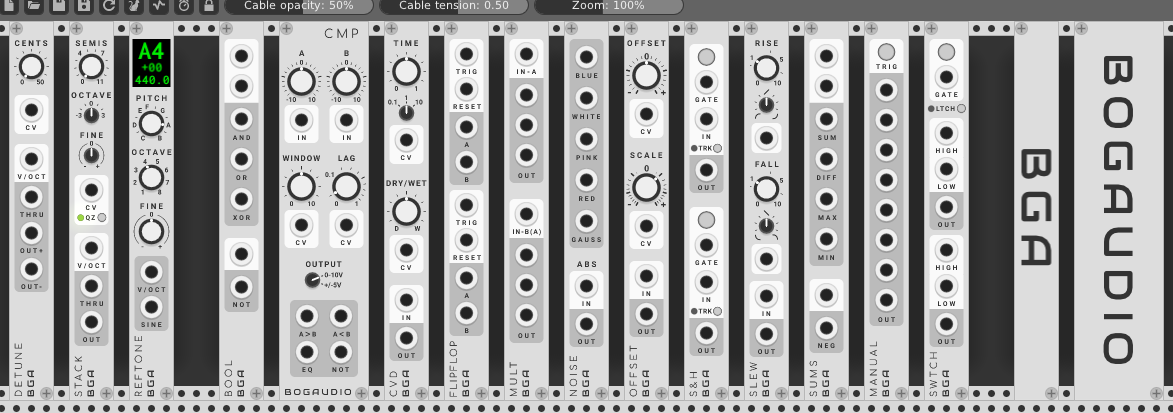
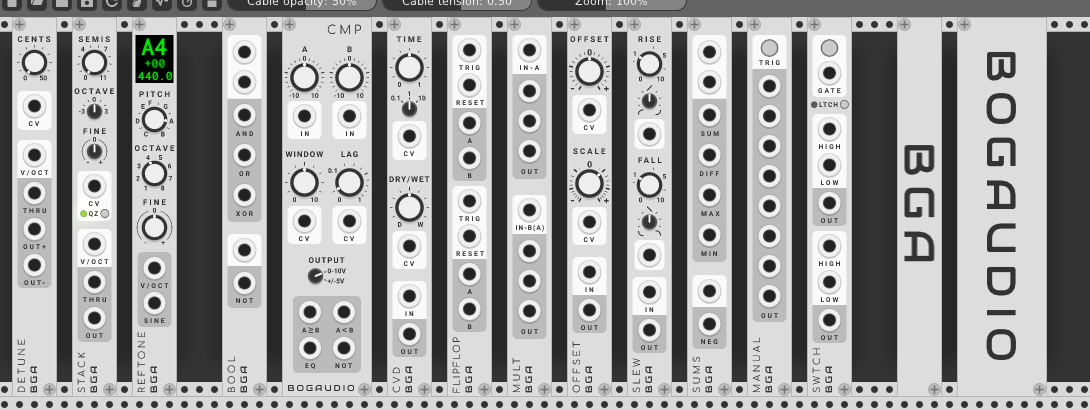
Update README; bump version; release WALK*; update screens.

diff --git a/src/bogaudio.cpp b/src/bogaudio.cpp
@@ -92,10 +92,10 @@ void init(rack::Plugin *p) {
 	p->addModel(modelADSR);
 	p->addModel(modelFollow);
 
-#ifdef EXPERIMENTAL
+	p->addModel(modelNoise);
+	p->addModel(modelSampleHold);
 	p->addModel(modelWalk2);
 	p->addModel(modelWalk);
-#endif
 
 	p->addModel(modelMix8);
 	p->addModel(modelMix4);
@@ -133,9 +133,7 @@ void init(rack::Plugin *p) {
 	p->addModel(modelFlipFlop);
 	p->addModel(modelManual);
 	p->addModel(modelMult);
-	p->addModel(modelNoise);
 	p->addModel(modelOffset);
-	p->addModel(modelSampleHold);
 	p->addModel(modelSlew);
 	p->addModel(modelSums);
 	p->addModel(modelSwitch);

diff --git a/README.md b/README.md
@@ -5,6 +5,7 @@ Modules for [VCV Rack](https://github.com/VCVRack/Rack), an open-source Eurorack
   - [Oscillators](#oscillators)
   - [LFOs](#lfos)
   - [Envelopes and Envelope Utilities](#envelopes)
+  - [Noise/Random, Sample and Hold](#random)
   - [Mixers, Panners and VCAs](#mixers)
   - [Effects and Dynamics](#effects)
   - [Sequential Switches and Sequencers](#sequencers)
@@ -16,6 +17,8 @@ Modules for [VCV Rack](https://github.com/VCVRack/Rack), an open-source Eurorack
 ![modules screenshot](./doc/www/modules1.png)
 
 ![modules screenshot](./doc/www/modules2.png)
+
+![modules screenshot](./doc/www/modules6.png)
 
 ![modules screenshot](./doc/www/modules5.png)
 
@@ -180,17 +183,53 @@ An envelope follower, a utility that converts its input to a CV proportional to 
 
 With DAMP at the minimum setting and SCALE at half, the module is an effective wave rectifier (that is, it outputs the absolute value of the input).
 
+### <a name="random"></a> Noise/Random, Sample and Hold
+
+![Noise/random screenshot](doc/www/noise.png)
+
+#### NOISE
+
+A noise source, in types blue (f), white, pink (1/f), red (aka rown, 1/f^2) and Gauss (normal with mean 0 and variance 1).
+
+Additionally, NOISE has an absolute value circuit.  Patch audio into ABS to get positive CV.  For example, patch white noise into ABS to get uniform values in the range 0 to 10.
+
+#### S&H
+
+A dual sample-and-hold and trigger-and-hold.  Sampling may be triggered by CV (on the rising edge of a trigger or gate) or button press.  If nothing is connected to an IN port, sampling for that channel is from an internal white noise source (range 0-10V).
+
+Each channel can be toggled into track-and-hold mode.  In this mode, when the input at GATE is high, or the button is held, the input is copied to the output.  When the gate goes low, the input is sampled and held until the next gate.
+
+#### WALK2
+
+WALK2 provides two channels of chaotic CV, where the CV moves as a "random walk".  The two outputs are drawn as a trace, in X and Y, on the display.
+
+For each channel:
+ - RATE controls how sedately, or wildly, the CV moves around.  If CV is in use, it is attenuated by the knob.
+ - OFFSET adds or subtracts up to 5V from the base +/-5V output.  If the offset CV is in use, it is attenuverted by the knob.
+ - SCALE scales the output; if CV is in use, it is attenuated by the knob.
+
+Additionally:
+  - A trigger on the JUMP input will cause both channels to jump to a random value.  A bit of slew limitation applies to the jump to minimize popping.
+  - DIST outputs a third CV, ranging over 0-10V, related the X and Y channel outputs.  
+
+Clicking on the display will jump the outputs, X and Y, to that point (again with a bit of slew limitation).
+
+Various options on the context (right-click) menu allow customization of the display (set the range of the display to +/-10V instead of the default +/-5V; hide the grid dots; set the color of the trace).
+
+#### WALK
+
+WALK is a single-channel random walk, identical to one channel of WALK2, in 3HP.
 
 ### <a name="mixers"></a> Mixers, Panners and VCAs
 
-#### MIX4
+#### MIX8
 
-A four-channel mixer/panner with performance mutes.
+An eight-channel mixer/panner with performance mutes.
 
 ![Mixers screenshot](doc/www/mixers1.png)
 
 Features:
-  - Four input channels with decibel-calibrated level faders.
+  - Eight input channels with decibel-calibrated level faders.
   - Level fader for the output mix.
   - CV control over channel and output levels; expects +10 volt CV; CV is attenuated by the corresponding slider when in use.
   - CV-controlled stereo panners; expects +/-5 volt CV; CV is attenuverted by the corresponding knob when in use.
@@ -200,9 +239,13 @@ Features:
   - Fader handles contain lights indicating the signal level out of that channel or the entire mix.
   - Output saturates (soft clips) to +/-12 volts, where the clipping effect becomes noticeable above +/-10 volts.
 
-#### MIX8
+#### MIX4
 
-An eight-channel version of MIX4 with the same features.
+A four-channel version of MIX8 with the same features.
+
+### MIX1
+
+A 3HP fader/VCA, with mute.  
 
 #### VCM
 
@@ -431,23 +474,11 @@ Manual may be set to output a trigger pulse on patch load (akin to a Max/Msp or 
 
 A 3 HP multiple (signal duplicator).  There are two 1-to-3 channels.  There is also a 1-to-6 mode: if nothing is patched to the second channel's input, the input to the first channel is copied to all six outputs.
 
-#### NOISE
-
-A noise source, in types blue (f), white, pink (1/f), red (aka rown, 1/f^2) and Gauss (normal with mean 0 and variance 1).
-
-Additionally, NOISE has an absolute value circuit.  Patch audio into ABS to get positive CV.  For example, patch white noise into ABS to get uniform values in the range 0 to 10.
-
 #### OFFSET
 
 An offset and scaler.  The OFFSET and SCALE knobs have CV inputs.  With an input signal, output is `(input + offset) * scale`.  With no input connected, the output is constant in the value of `offset * scale`.
 
 By default, the output is capped at +/-12 volts (this is a standard in Rack).  A context menu option allows this limit to be disabled.
-
-#### S&H
-
-A dual sample-and-hold and trigger-and-hold.  Sampling may be triggered by CV (on the rising edge of a trigger or gate) or button press.  If nothing is connected to an IN port, sampling for that channel is from an internal white noise source (range 0-10V).
-
-Each channel can be toggled into track-and-hold mode.  In this mode, when the input at GATE is high, or the button is held, the input is copied to the output.  When the gate goes low, the input is sampled and held until the next gate.
 
 #### SLEW
 
